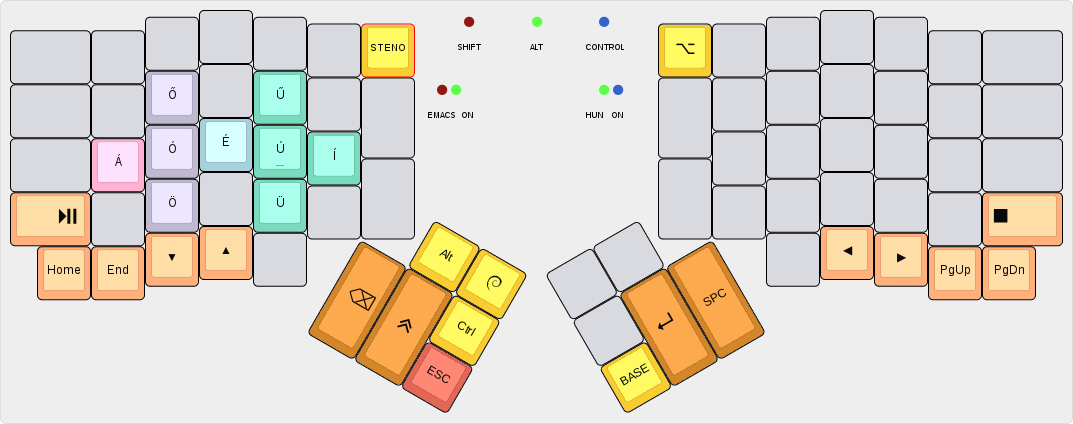
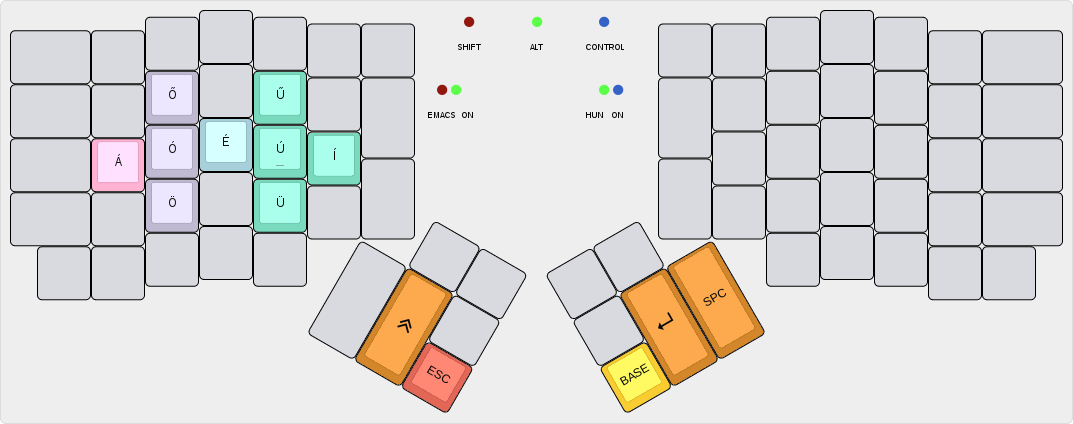
Rethink how the arrow keys are to be accessed.
Create a separate layer that puts the arrow keys onto the thumb cluster,
so we can easily navigate, without losing the ability to enter text too.

Fixes #46.

diff --git a/keymap.c b/keymap.c
@@ -15,6 +15,7 @@
 
 enum {
   BASE = 0,
+  ARRW,
   APPSEL,
   HUN,
   EMACS,
@@ -31,6 +32,7 @@ enum {
   // Buttons that do extra stuff
   A_GUI,
   A_PLVR,
+  A_ARW,
   A_ESC,
   A_MPN,
   A_COLN,
@@ -138,7 +140,7 @@ const uint16_t PROGMEM keymaps[][MATRIX_ROWS][MATRIX_COLS] = {
 /* Keymap 0: Base Layer
  *
  * ,-----------------------------------------------------.           ,-----------------------------------------------------.
- * |        `~ | 1 F1 | 2 F2 | 3 F3 | 4 F4 | 5 F5 | Plvr |           | Apps | 6 F6 | 7 F7 | 8 F8 | 9 F9 | 0 F10|       F11 |
+ * |        `~ | 1 F1 | 2 F2 | 3 F3 | 4 F4 | 5 F5 | Plvr |           |Arrows| 6 F6 | 7 F7 | 8 F8 | 9 F9 | 0 F10|       F11 |
  * |-----------+------+------+------+------+-------------|           |------+------+------+------+------+------+-----------|
  * | Next/Prev |   '  |   ,  |   .  |   P  |   Y  |   [  |           |  ]   |   F  |   G  |   C  |   R  |  L   | \         |
  * |-----------+------+------+------+------+------|      |           |      |------+------+------+------+------+-----------|
@@ -146,7 +148,7 @@ const uint16_t PROGMEM keymaps[][MATRIX_ROWS][MATRIX_COLS] = {
  * |-----------+------+------+------+------+------|   (  |           |  )   |------+------+------+------+------+-----------|
  * | Play/Pause|   /  |   Q  |   J  |   K  |   X  |      |           |      |   B  |   M  |   W  |   V  |  Z   |      Stop |
  * `-----------+------+------+------+------+-------------'           `-------------+------+------+------+------+-----------'
- *     |  Home | End  | Down |  Up  |   :  |                                       |   -  | Left | Right| PgUp | PgDn  |
+ *     |       |      | Home | PgUp |   :  |                                       |   -  | PgDn |  End |      |       |
  *     `-----------------------------------'                                       `-----------------------------------'
  *                                         ,-------------.           ,-------------.
  *                                         | LAlt | GUI  |           |EMACS | 1HND |
@@ -162,25 +164,71 @@ const uint16_t PROGMEM keymaps[][MATRIX_ROWS][MATRIX_COLS] = {
 ,M(A_MPN)           ,KC_QUOT     ,KC_COMM     ,KC_DOT ,KC_P   ,KC_Y   ,KC_LBRC
 ,KC_TAB             ,KC_A        ,KC_O        ,KC_E   ,KC_U   ,KC_I
 ,KC_MPLY            ,KC_SLSH     ,KC_Q        ,KC_J   ,KC_K   ,KC_X   ,KC_LPRN
-,KC_HOME            ,KC_END      ,KC_DOWN     ,KC_UP  ,M(A_COLN)
+,KC_NO              ,KC_NO       ,KC_HOME     ,KC_PGUP,M(A_COLN)
 
                                                             ,F(F_ALT),F(F_GUI)
                                                                      ,F(F_CTRL)
                                                     ,KC_BSPC,F(F_SFT),M(A_ESC)
 
                                                                 // right hand
-                                                               ,KC_APP  ,M(KF_6),M(KF_7),M(KF_8),M(KF_9)     ,M(KF_10)    ,KC_F11
+                                                               ,M(A_ARW),M(KF_6),M(KF_7),M(KF_8),M(KF_9)     ,M(KF_10)    ,KC_F11
                                                                ,KC_RBRC ,KC_F   ,KC_G   ,KC_C   ,KC_R        ,KC_L        ,KC_BSLS
                                                                         ,KC_D   ,KC_H   ,KC_T   ,KC_N        ,KC_S        ,KC_EQL
                                                                ,KC_RPRN ,KC_B   ,KC_M   ,KC_W   ,KC_V        ,KC_Z        ,KC_MSTP
-                                                                                ,KC_MINS,KC_LEFT,KC_RGHT     ,KC_PGUP     ,KC_PGDN
+                                                                                ,KC_MINS,KC_PGDN,KC_END      ,KC_NO       ,KC_NO
 
                                                                ,OSL(EMACS),M(OH_LEFT)
                                                                ,KC_LEAD
                                                                ,F(F_HUN),KC_ENT ,KC_SPC
     ),
 
-/* Keymap 1: Application select layer
+/* Keymap 1: Arrow layer
+ *
+ * ,-----------------------------------------------------.           ,-----------------------------------------------------.
+ * |           |      |      |      |      |      |      |           |      |      |      |      |      |      |           |
+ * |-----------+------+------+------+------+-------------|           |------+------+------+------+------+------+-----------|
+ * |           |      |      |      |      |      |      |           |      |      |      |      |      |      |           |
+ * |-----------+------+------+------+------+------|      |           |      |------+------+------+------+------+-----------|
+ * |           |      |      |      |      |      |------|           |------|      |      |      |      |      |           |
+ * |-----------+------+------+------+------+------|      |           |      |------+------+------+------+------+-----------|
+ * |           |      |      |      |      |      |      |           |      |      |      |      |      |      |           |
+ * `-----------+------+------+------+------+-------------'           `-------------+------+------+------+------+-----------'
+ *      |      |      |      |      |      |                                       |      |      |      |      |      |
+ *      `----------------------------------'                                       `----------------------------------'
+ *                                         ,-------------.           ,-------------.
+ *                                         |      |      |           | Ctrl | ESC  |
+ *                                  ,------|------|------|           |------+------+------.
+ *                                  |      |      |  Up  |           | Left |      |      |
+ *                                  |      |      |------|           |------|      |      |
+ *                                  |      |      | Down |           | Rght |      |      |
+ *                                  `--------------------'           `--------------------'
+ */
+
+[ARRW] = KEYMAP(
+// left hand
+ KC_TRNS ,KC_TRNS    ,KC_TRNS   ,KC_TRNS    ,KC_TRNS    ,KC_TRNS    ,KC_TRNS
+,KC_TRNS ,KC_TRNS    ,KC_TRNS   ,KC_TRNS    ,KC_TRNS    ,KC_TRNS    ,KC_TRNS
+,KC_TRNS ,KC_TRNS    ,KC_TRNS   ,KC_TRNS    ,KC_TRNS    ,KC_TRNS
+,KC_TRNS ,KC_TRNS    ,KC_TRNS   ,KC_TRNS    ,KC_TRNS    ,KC_TRNS    ,KC_TRNS
+,KC_TRNS ,KC_TRNS    ,KC_TRNS   ,KC_TRNS    ,KC_TRNS
+
+                                             ,KC_TRNS ,KC_TRNS
+                                                      ,KC_UP
+                                    ,KC_TRNS ,KC_TRNS ,KC_DOWN
+
+                                                                // right hand
+                                                               ,KC_TRNS ,KC_TRNS ,KC_TRNS ,KC_TRNS ,KC_TRNS ,KC_TRNS ,KC_TRNS
+                                                               ,KC_TRNS ,KC_TRNS ,KC_TRNS ,KC_TRNS ,KC_TRNS ,KC_TRNS ,KC_TRNS
+                                                                        ,KC_TRNS ,KC_TRNS ,KC_TRNS ,KC_TRNS ,KC_TRNS ,KC_TRNS
+                                                               ,KC_TRNS ,KC_TRNS ,KC_TRNS ,KC_TRNS ,KC_TRNS ,KC_TRNS ,KC_TRNS
+                                                                                 ,KC_TRNS ,KC_TRNS ,KC_TRNS ,KC_TRNS ,KC_TRNS
+
+                                                               ,F(F_CTRL),M(A_ESC)
+                                                               ,KC_LEFT
+                                                               ,KC_RGHT  ,KC_TRNS  ,KC_TRNS
+    ),
+
+/* Keymap 2: Application select layer
  *
  * ,-----------------------------------------------------.           ,-----------------------------------------------------.
  * |           |Music |Slack |Emacs |Term  |Chrome|      |           |      |      |      |      |      |      |           |
@@ -227,7 +275,7 @@ const uint16_t PROGMEM keymaps[][MATRIX_ROWS][MATRIX_COLS] = {
     ),
 
 
-/* Keymap 2: Hungarian Layer
+/* Keymap 3: Hungarian Layer
  *
  * ,-----------------------------------------------------.           ,-----------------------------------------------------.
  * |           |      |      |      |      |      |      |           |      |      |      |      |      |      |           |
@@ -251,29 +299,29 @@ const uint16_t PROGMEM keymaps[][MATRIX_ROWS][MATRIX_COLS] = {
 
 [HUN] = KEYMAP(
 // left hand
- KC_NO   ,KC_NO   ,KC_NO    ,KC_NO   ,KC_NO    ,KC_NO   ,KC_TRNS
+ KC_NO   ,KC_NO   ,KC_NO    ,KC_NO   ,KC_NO    ,KC_NO   ,KC_NO
 ,KC_NO   ,KC_NO   ,M(HU_OEE),KC_NO   ,M(HU_UEE),KC_NO   ,KC_NO
 ,KC_NO   ,M(HU_AA),M(HU_OO) ,M(HU_EE),M(HU_UU) ,M(HU_II)
-,KC_TRNS ,KC_NO   ,M(HU_OE) ,KC_NO   ,M(HU_UE) ,KC_NO   ,KC_NO
-,KC_TRNS ,KC_TRNS ,KC_TRNS  ,KC_TRNS ,KC_NO
+,KC_NO   ,KC_NO   ,M(HU_OE) ,KC_NO   ,M(HU_UE) ,KC_NO   ,KC_NO
+,KC_NO   ,KC_NO   ,KC_NO    ,KC_NO   ,KC_NO
 
-                                             ,KC_TRNS ,KC_TRNS
-                                                      ,KC_TRNS
-                                    ,KC_TRNS ,KC_TRNS ,KC_TRNS
+                                             ,KC_NO   ,KC_NO
+                                                      ,KC_NO
+                                    ,KC_NO   ,KC_TRNS ,KC_TRNS
 
                                                                 // right hand
                                                                ,KC_TRNS ,KC_NO   ,KC_NO   ,KC_NO   ,KC_NO   ,KC_NO   ,KC_NO
                                                                ,KC_NO   ,KC_NO   ,KC_NO   ,KC_NO   ,KC_NO   ,KC_NO   ,KC_NO
                                                                         ,KC_NO   ,KC_NO   ,KC_NO   ,KC_NO   ,KC_NO   ,KC_NO
                                                                ,KC_NO   ,KC_NO   ,KC_NO   ,KC_NO   ,KC_NO   ,KC_NO   ,KC_NO
-                                                                                 ,KC_NO   ,KC_TRNS ,KC_TRNS ,KC_TRNS ,KC_TRNS
+                                                                                 ,KC_NO   ,KC_NO   ,KC_NO   ,KC_NO   ,KC_NO
 
                                                                ,KC_NO   ,KC_NO
                                                                ,KC_NO
                                                                ,F(F_BSE),KC_TRNS  ,KC_TRNS
     ),
 
-/* Keymap 3: Spacemacs layer
+/* Keymap 4: Spacemacs layer
  *
  * ,-----------------------------------------------------.           ,-----------------------------------------------------.
  * | MS Slow   | 1 F1 | 2 F2 | 3 F3 | 4 F4 | 5 F5 |ScrLCK|           |ScrLCK| 6 F6 | 7 F7 | 8 F8 | 9 F9 | 0 F10|    F11    |
@@ -454,7 +502,7 @@ KC_NO,  KC_NO,  KC_NO,  KC_NO,   KC_NO,
 /* Keymap 8: Experimental layer
  *
  * ,-----------------------------------------------------.           ,-----------------------------------------------------.
- * |        `~ | 1 F1 | 2 F2 | 3 F3 | 4 F4 | 5 F5 | Plvr |           | Apps | 6 F6 | 7 F7 | 8 F8 | 9 F9 | 0 F10|       F11 |
+ * |        `~ | 1 F1 | 2 F2 | 3 F3 | 4 F4 | 5 F5 | Plvr |           |Arrows| 6 F6 | 7 F7 | 8 F8 | 9 F9 | 0 F10|       F11 |
  * |-----------+------+------+------+------+-------------|           |------+------+------+------+------+------+-----------|
  * | Next/Prev |   '  |   ,  |   .  |   P  |   Y  |   [  |           |  ]   |   L  |   F  |   C  |   R  |  J   | =         |
  * |-----------+------+------+------+------+------|      |           |      |------+------+------+------+------+-----------|
@@ -485,7 +533,7 @@ KC_NO,  KC_NO,  KC_NO,  KC_NO,   KC_NO,
                                                     ,KC_BSPC,F(F_SFT),M(A_ESC)
 
                                                                 // right hand
-                                                               ,KC_APP  ,M(KF_6),M(KF_7),M(KF_8),M(KF_9)     ,M(KF_10)    ,KC_F11
+                                                               ,M(A_ARW),M(KF_6),M(KF_7),M(KF_8),M(KF_9)     ,M(KF_10)    ,KC_F11
                                                                ,KC_RBRC ,KC_L   ,KC_F   ,KC_C   ,KC_R        ,KC_J        ,KC_BSLS
                                                                         ,KC_D   ,KC_H   ,KC_T   ,KC_N        ,KC_S        ,KC_EQL
                                                                ,KC_RPRN ,KC_Q   ,KC_M   ,KC_W   ,KC_B        ,KC_SLSH     ,KC_MSTP
@@ -613,6 +661,24 @@ const macro_t *action_get_macro(keyrecord_t *record, uint8_t id, uint8_t opt)
           layer_off (HUN);
         } else {
           unregister_code (KC_ESC);
+        }
+        break;
+
+      case A_ARW:
+        if (record->event.pressed) {
+          layer_invert (ARRW);
+
+          ergodox_led_all_off ();
+          ergodox_right_led_2_on ();
+          _delay_ms (100);
+          ergodox_right_led_1_on ();
+          _delay_ms (100);
+          ergodox_right_led_2_off ();
+          ergodox_right_led_3_on ();
+          _delay_ms (100);
+          ergodox_right_led_1_off ();
+          _delay_ms (100);
+          ergodox_right_led_3_off ();
         }
         break;
 

diff --git a/readme.md b/readme.md
@@ -14,6 +14,7 @@ under Linux. Your mileage may vary.
 
 * [Layouts](#layouts)
   - [Base layer](#base-layer)
+  - [Arrow layer](#arrow-layer)
   - [Hungarian layer](#hungarian-layer)
   - [Emacs layer](#emacs-layer)
   - [One-handed layer](#one-handed-layer)
@@ -29,9 +30,8 @@ under Linux. Your mileage may vary.
 
 [![Base layer](images/base-layer.png)](http://www.keyboard-layout-editor.com/#/gists/28f7eb305fdbff943613e1dc7aa9e82b)
 
-At its core, this is a Dvorak layout, with some minor changes (for example, `-`
-being on the left half, and on the innermost key of the bottom row on the
-right). The more interesting parts are how certain keys behave:
+At its core, this is a Dvorak layout, with some minor changes. The more
+interesting parts are how certain keys behave:
 
 * The keys on the number row double as function keys, when held for a bit longer
   than an usual tap. This allows me to use the function keys without having to
@@ -50,8 +50,8 @@ right). The more interesting parts are how certain keys behave:
   the one-shot modifiers are in-flight (as in, single-tapped, and not expired
   yet), it cancels all one-shot modifiers. It also cancels the **Hun** layer, if
   active. Otherwise it sends the usual keycode.
-* The **Emacs** and **Hun** layer keys are one-shot, the **1Hand** and **STENO**
-  keys are toggles.
+* The **Emacs** and **Hun** layer keys are one-shot, the **1Hand**, **Arrow**
+  and **STENO** keys are toggles.
 * The **Lead** key allows me to type in a sequence of keys, and trigger some
   actions:
     - `LEAD u` enters unicode input mode, by sending the GTK+ key sequence that
@@ -63,6 +63,17 @@ right). The more interesting parts are how certain keys behave:
     - `LEAD e` makes the [experimental layer](#experimental-layer) the default.
     - `LEAD v` prints the firmware version, the keyboard and the keymap, if
       compiled with a QMK version that has these available.
+      
+## Arrow layer
+
+[![Arrow layer](images/arrow-layer.png)](http://www.keyboard-layout-editor.com/#/gists/60ff9fc8e3e3d123aa065fbbdfe28f33)
+
+Used for navigation, to be layered on top of the base layer. Makes it possible
+to move the cursor and do edits still, unlike the [Emacs layer](#emacs-layer),
+which does not.
+
+The compromise here is that the `Control` and `ESC` keys had to move to a less
+accessible position.
 
 ## Hungarian layer
 
